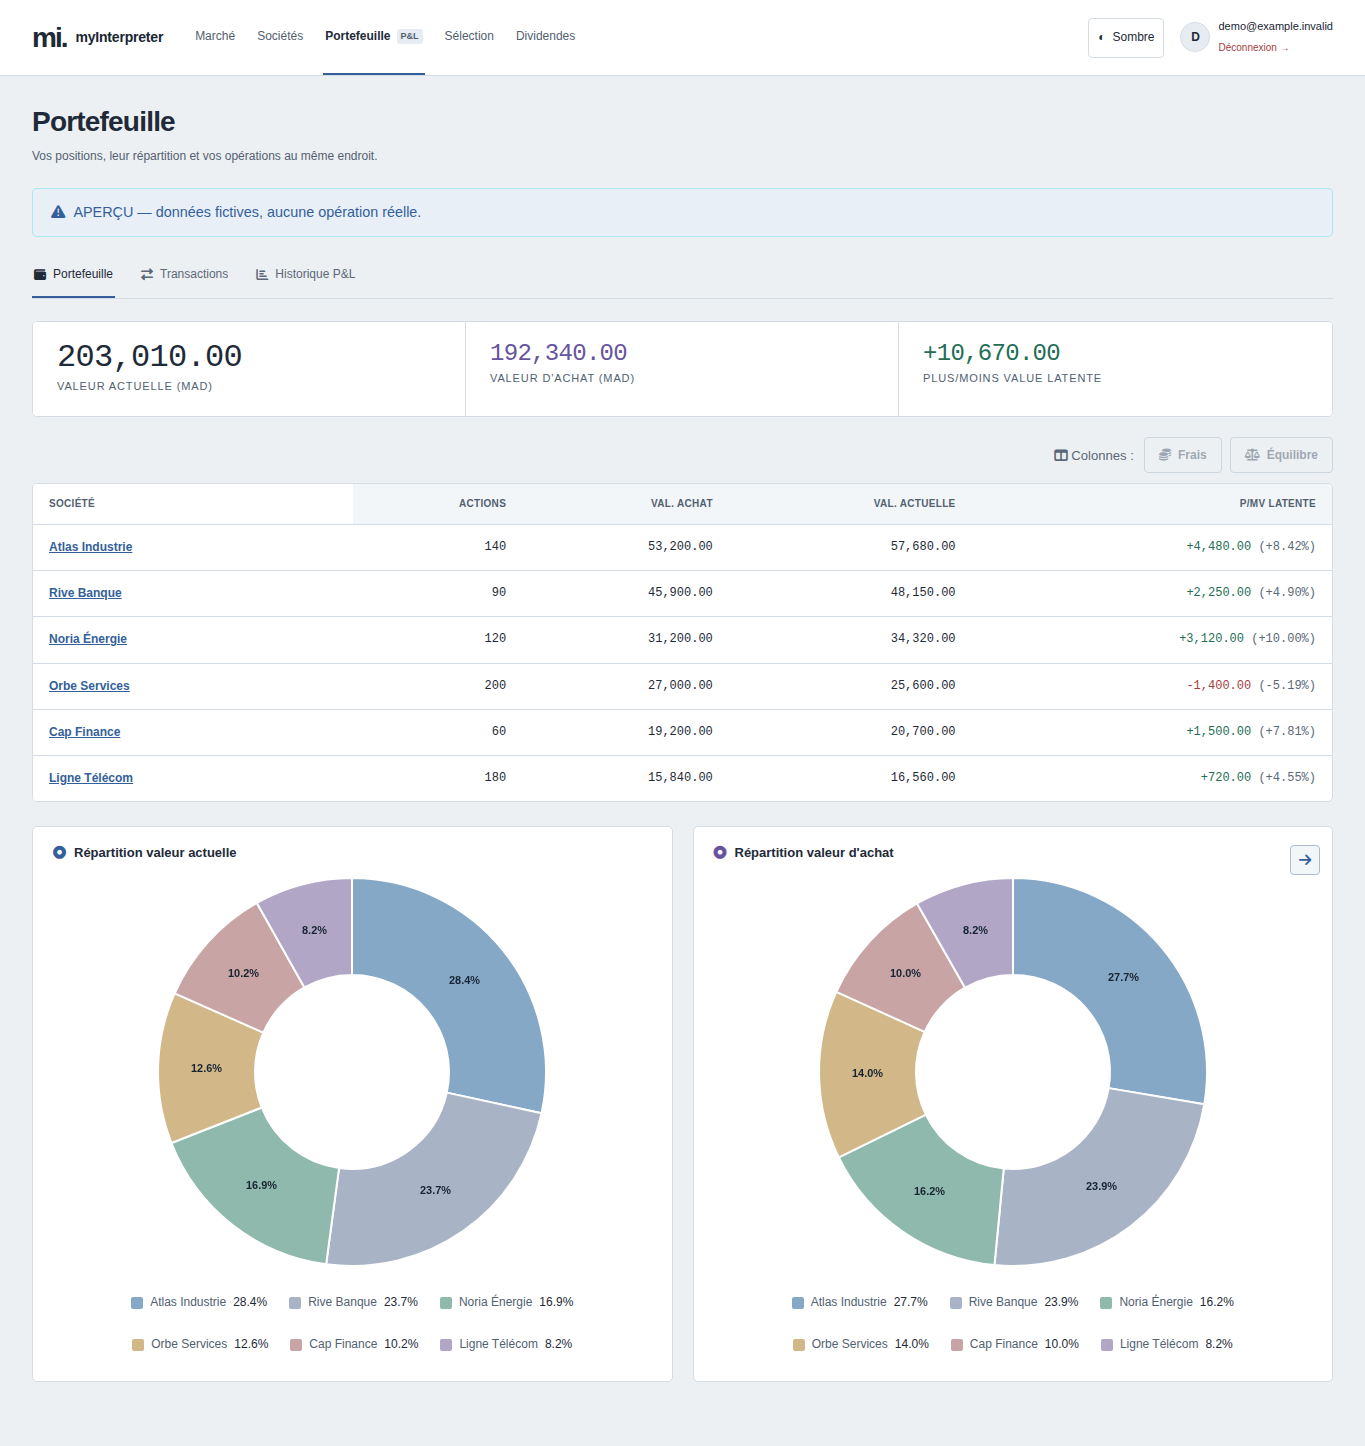
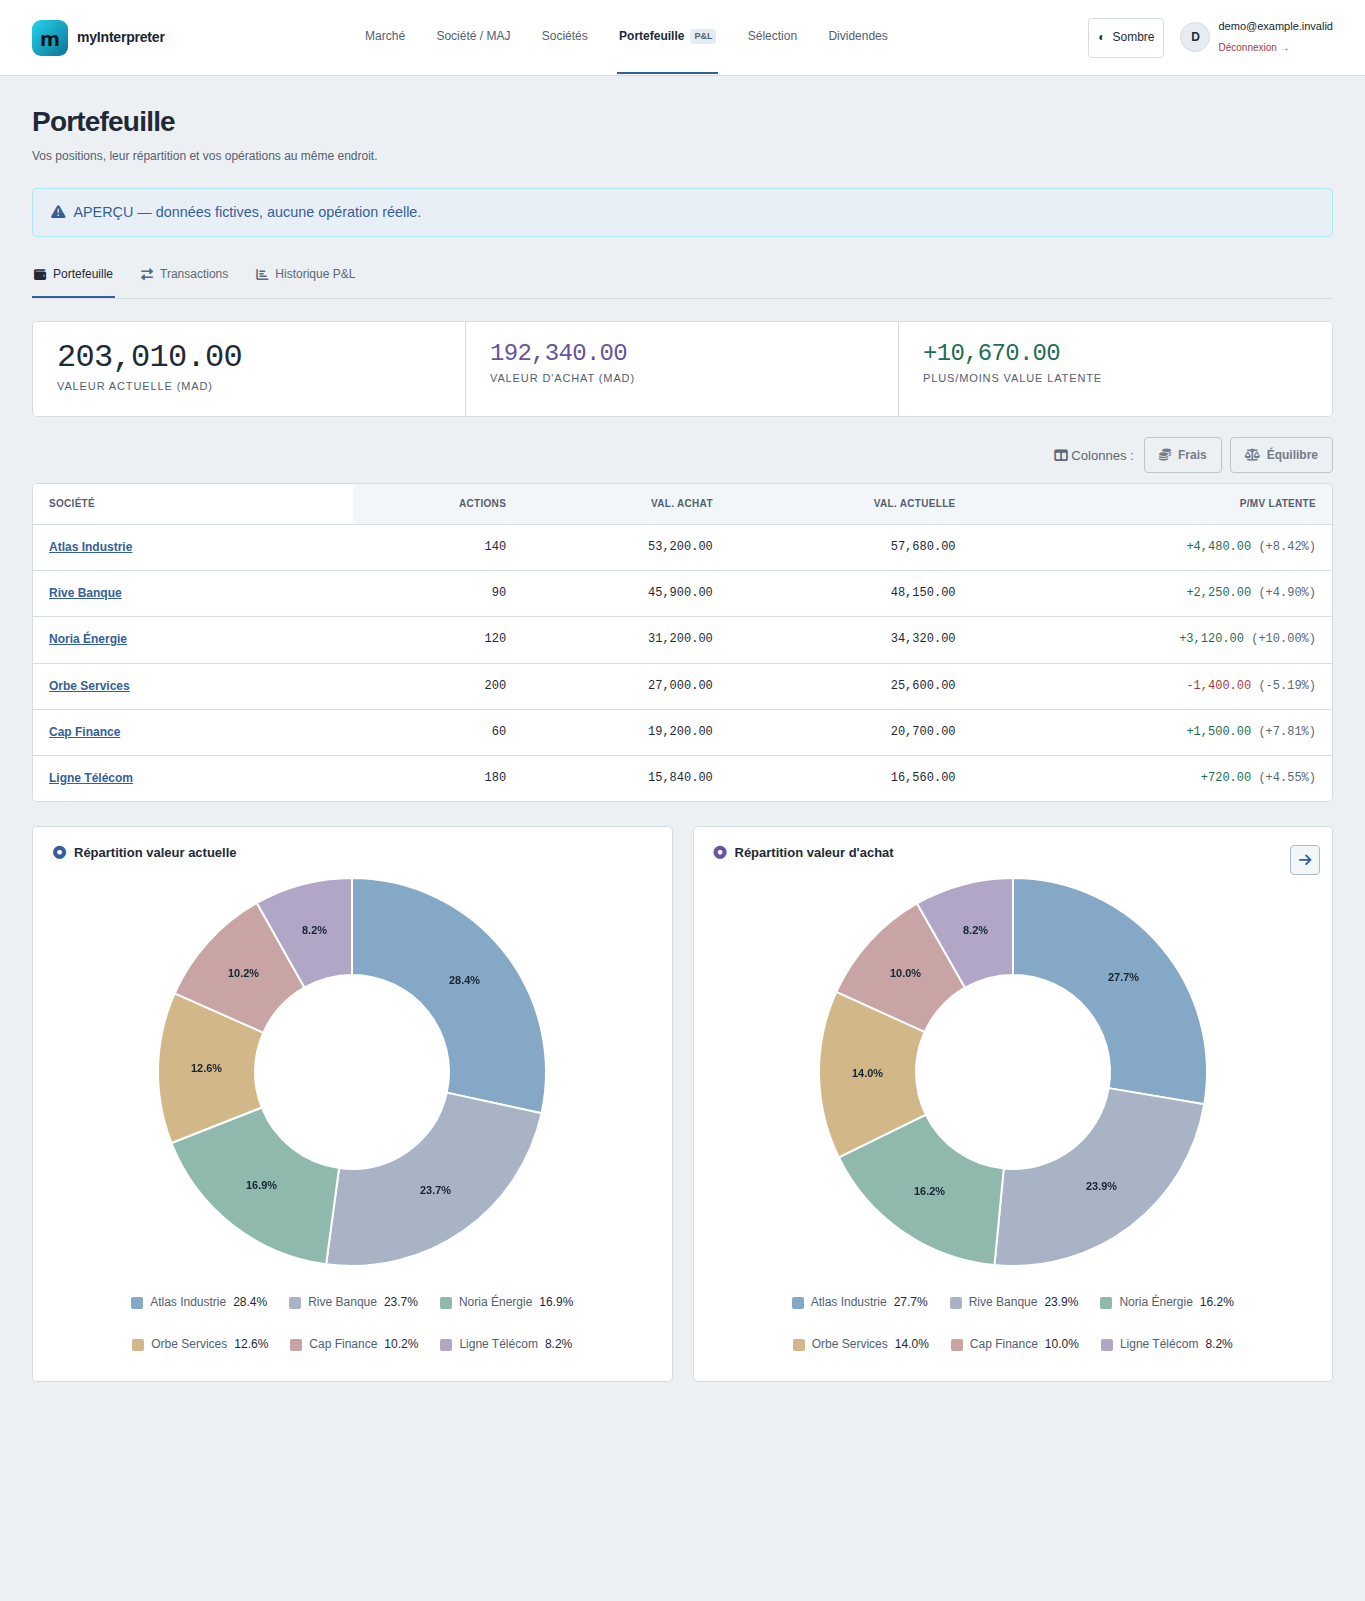
fix(ui): make financial charts and navigation responsive

diff --git a/assets/css/workspace.css b/assets/css/workspace.css
@@ -124,6 +124,10 @@ body.workspace { background: var(--bg); color: var(--text); font-family: var(--f
 .workspace .brand { flex-shrink: 0; border: 0; padding: 0; margin: 0; gap: 9px; }
 .workspace .brand-mark { width: auto; height: auto; font: 700 28px var(--font-body); letter-spacing: -2px; background: none; color: var(--text); box-shadow: none; border-radius: 0; }
 .workspace .brand:hover .brand-mark { box-shadow: none; }
+.workspace .sidebar { padding: 0; justify-content: center; }
+.workspace-header-inner { display: flex; align-items: center; gap: 24px; width: 100%; max-width: 1600px; min-height: 72px; padding-inline: 32px; }
+.workspace .brand-logo { width: 36px; height: 36px; flex: 0 0 36px; }
+.workspace .workspace-header-inner .nav-group { flex: 1; justify-content: center; gap: clamp(18px, 2vw, 30px); }
 .workspace .brand-name { font-size: 14px; }
 .workspace .brand-sub { display: none; }
 .workspace .nav-label, .workspace .nav-group .nav-icon { display: none; }
@@ -186,7 +190,14 @@ body.workspace { background: var(--bg); color: var(--text); font-family: var(--f
 .workspace-chart-legend button { position: static; overflow-wrap: anywhere; }
 .chart-legend-help { left: 0; right: 0; margin-inline: auto; width: min(400px, 100%); }
 .workspace .main, .workspace .main > *, .workspace .mkt-section { min-width: 0; }
-.workspace .mkt-chart-wrap { position: relative; min-width: 0; }
+.workspace .mkt-chart-wrap { position: relative; min-width: 0; width: 100%; height: clamp(260px, 25vw, 420px); max-height: none; }
+.workspace .mkt-chart-wrap canvas { width: 100% !important; height: 100% !important; }
+.workspace .holders-chart-wrap { position: relative; width: min(100%, 280px); aspect-ratio: 1; margin-inline: auto; }
+.workspace .holders-chart-wrap canvas { width: 100% !important; height: 100% !important; }
+.workspace .mkt-two-col { grid-template-columns: minmax(180px, 280px) minmax(0, 1fr); }
+.workspace .holder-name { overflow-wrap: anywhere; min-width: 0; }
+.workspace .col-toggle { transition: background-color 200ms, border-color 200ms, opacity 200ms; opacity: .8; }
+.workspace .col-toggle.active { background: var(--accent-dim); border-color: var(--accent); color: var(--accent); opacity: 1; }
 .workspace .mkt-section canvas { max-width: 100%; }
 .workspace .charts-grid { grid-template-columns: repeat(2, minmax(0, 1fr)); }
 @media (max-width: 900px) {
@@ -197,7 +208,8 @@ body.workspace { background: var(--bg); color: var(--text); font-family: var(--f
 .workspace .chart-switch:hover { transform: none; }
 .workspace .chart-switch--previous { left: auto; right: 12px; }
 .workspace .chart-heading { padding-right: 32px; }
-.workspace .sector-list { max-height: 280px; }
+.workspace .sector-list { max-height: none; overflow: visible; padding-inline-end: 0; }
+.workspace .charts-track { align-items: flex-start; }
 .workspace .sector-hover, .workspace .sector-picker__menu { background: var(--surface-1); color: var(--text); border-radius: 5px; }
 .workspace .price-filter__selection { background: var(--accent); }
 .workspace .directory-filters { padding: 20px; }
@@ -268,14 +280,16 @@ body.workspace { background: var(--bg); color: var(--text); font-family: var(--f
 .workspace .page-loading { background: var(--accent-dim); }
 .workspace :is(a, button, input, select, textarea):focus-visible { outline: 2px solid var(--accent); outline-offset: 3px; }
 @media (max-width: 1200px) {
-  .workspace .sidebar { gap: 20px; padding: 0 24px; flex-wrap: wrap; }
+  .workspace .sidebar { padding: 0; }
+  .workspace-header-inner { gap: 20px; padding-inline: 24px; flex-wrap: wrap; }
   .workspace .nav-group { gap: 14px; }
   .workspace .user-pill { max-width: 130px; }
   .workspace .user-name { max-width: 85px; }
   .workspace .main { padding: 24px; }
 }
 @media (max-width: 1000px) {
-  .workspace .sidebar { padding: 16px 24px 0; gap: 12px 20px; }
+  .workspace-header-inner { padding: 16px 24px 0; gap: 12px 20px; }
+  .workspace .workspace-header-inner .nav-group { justify-content: flex-start; flex: 1 0 100%; }
   .workspace .nav-group { order: 3; flex-basis: 100%; overflow-x: auto; gap: 24px; }
   .workspace .nav-item { min-height: 46px; }
   .workspace .user-pill { max-width: 190px; }
@@ -284,7 +298,7 @@ body.workspace { background: var(--bg); color: var(--text); font-family: var(--f
   .workspace .metric { border-bottom: 1px solid var(--border); }
 }
 @media (max-width: 768px) {
-  .workspace .sidebar { padding: 14px 16px 0; }
+  .workspace-header-inner { padding: 14px 16px 0; }
   .workspace .brand-name { font-size: 13px; }
   .workspace .brand-mark { font-size: 24px; }
   .workspace .nav-group { gap: 22px; }
@@ -320,6 +334,10 @@ body.workspace { background: var(--bg); color: var(--text); font-family: var(--f
   .workspace .div-years { margin-left: 0; }
   .workspace .login-wrap { min-height: 0; }
   .workspace .dash-card-inner { padding: 28px 20px; }
+}
+@media (max-width: 600px) {
+  .workspace .mkt-two-col { grid-template-columns: minmax(0, 1fr); }
+  .workspace .mkt-section { padding: 16px; }
 }
 @media (prefers-reduced-motion: reduce) {
   html { scroll-behavior: auto; }

diff --git a/assets/js/theme.js b/assets/js/theme.js
@@ -66,7 +66,7 @@
         if (axis.grid) axis.grid.color = color('--border');
         if (axis.border) axis.border.color = color('--border');
       }
-      if (chart.config.type === 'doughnut') {
+      if (['chartCurrent', 'chartBuy', 'chartSectors'].includes(chart.canvas.id)) {
         // Categorical allocation colors, not gain/loss indicators.
         const palette = ['#86a8c7', '#a8b4c6', '#8fb9ac', '#d2b789', '#c8a4a4', '#b1a6c6',
           '#8fb8bd', '#bdc494', '#bba88c', '#b89eb4', '#9ab6d2', '#b2c6b8',

diff --git a/infoAction.php b/infoAction.php
@@ -746,8 +746,10 @@ if ($awSession && !empty($name ?? '')) {
 
     // Quarterly CA
     const trim = d.trim;
+    const quarterKeys = Object.keys(trim || {}).filter(k => /^T[1-4]\d{4}$/.test(k))
+      .sort((a, b) => Number(a.slice(2)) - Number(b.slice(2)) || Number(a[1]) - Number(b[1]));
     if (trim) {
-      const qKeys = Object.keys(trim).filter(k => /^T\d\d{4}$/.test(k)).sort();
+      const qKeys = quarterKeys;
       if (qKeys.length > 0) {
         html += `<div class="mkt-section">
           <div class="mkt-section-title"><i class="fas fa-calendar-alt me-2 t-amber"></i>Chiffre d'affaires trimestriel (MMAD)</div>
@@ -761,7 +763,7 @@ if ($awSession && !empty($name ?? '')) {
       html += `<div class="mkt-section">
         <div class="mkt-section-title"><i class="fas fa-users me-2 t-emerald"></i>Actionnariat</div>
         <div class="mkt-two-col">
-          <canvas id="holdersChart" style="max-height:220px"></canvas>
+          <div class="holders-chart-wrap"><canvas id="holdersChart"></canvas></div>
           <div class="holders-list" id="holders-list"></div>
         </div>
       </div>`;
@@ -802,6 +804,8 @@ if ($awSession && !empty($name ?? '')) {
         },
         options: {
           responsive: true,
+          maintainAspectRatio: false,
+          animation: false,
           interaction: { mode: 'index', intersect: false },
           plugins: {
             legend: { display: false },
@@ -817,7 +821,7 @@ if ($awSession && !empty($name ?? '')) {
 
     // Draw quarterly chart
     if (trim) {
-      const qKeys = Object.keys(trim).filter(k => /^T\d\d{4}$/.test(k)).sort().slice(-12);
+      const qKeys = quarterKeys.slice(-12);
       if (qKeys.length > 0 && document.getElementById('trimChart')) {
         new Chart(document.getElementById('trimChart').getContext('2d'), {
           type: 'bar',
@@ -828,6 +832,8 @@ if ($awSession && !empty($name ?? '')) {
           },
           options: {
             responsive: true,
+            maintainAspectRatio: false,
+            animation: false,
             interaction: { mode: 'index', intersect: false },
             plugins: { legend: { display: false } },
             scales: {
@@ -849,7 +855,8 @@ if ($awSession && !empty($name ?? '')) {
           datasets: [{ data: d.shareholders.map(h => h.pct), backgroundColor: colors.slice(0, d.shareholders.length), borderWidth: 0 }]
         },
         options: {
-          responsive: true, maintainAspectRatio: true,
+          responsive: true, maintainAspectRatio: false,
+          animation: false,
           plugins: { legend: { display: false } }
         }
       });

diff --git a/portfolio.php b/portfolio.php
@@ -329,10 +329,10 @@ $activeTab = $_GET['tab'] ?? 'portfolio';
       </style>
       <div class="col-toggles">
         <span class="lbl"><i class="fas fa-table-columns me-1"></i>Colonnes :</span>
-        <button type="button" class="btn btn-ghost btn-sm col-toggle" onclick="toggleCols('frais', this)">
+        <button type="button" class="btn btn-ghost btn-sm col-toggle" aria-pressed="false" onclick="toggleCols('frais', this)">
           <i class="fas fa-coins"></i> Frais
         </button>
-        <button type="button" class="btn btn-ghost btn-sm col-toggle" onclick="toggleCols('seuil', this)">
+        <button type="button" class="btn btn-ghost btn-sm col-toggle" aria-pressed="false" onclick="toggleCols('seuil', this)">
           <i class="fas fa-scale-balanced"></i> Équilibre
         </button>
       </div>
@@ -606,8 +606,22 @@ function switchTab(name) {
 
 /* ── Collapsible column groups (frais / seuil) — collapsed by default ── */
 function toggleCols(group, btn) {
-  document.getElementById('holdingsTbl').classList.toggle('show-' + group);
-  btn.classList.toggle('active');
+  const table = document.getElementById('holdingsTbl');
+  const cells = [...table.querySelectorAll('th, td')];
+  cells.forEach(cell => cell.getAnimations().forEach(animation => animation.cancel()));
+  const before = new Map(cells.filter(cell => cell.offsetWidth).map(cell => [cell, cell.getBoundingClientRect()]));
+  const open = table.classList.toggle('show-' + group);
+  btn.classList.toggle('active', open);
+  btn.setAttribute('aria-pressed', String(open));
+  if (matchMedia('(prefers-reduced-motion: reduce)').matches) return;
+  for (const cell of cells) {
+    if (!cell.offsetWidth || cell.cellIndex === 0) continue;
+    const old = before.get(cell), next = cell.getBoundingClientRect();
+    cell.animate([
+      {transform: old ? `translateX(${old.left - next.left}px)` : 'translateX(8px)', opacity: old ? 1 : 0},
+      {transform: 'translateX(0)', opacity: 1}
+    ], {duration: 240, easing: 'cubic-bezier(.2,.7,.2,1)'});
+  }
 }
 
 /* ── Doughnut charts ───────────────────────────────────── */

diff --git a/tests/render_workspace_fixture.php b/tests/render_workspace_fixture.php
@@ -11,6 +11,7 @@ $_SESSION = ['logged_in' => $page !== 'login', 'USER_ID' => 'fixture-user', 'USE
 // Load pure formatting/calculation helpers, explicitly excluding secret loading.
 $config = file_get_contents('config/config.php');
 $config = preg_replace('/^require_once[^\n]+secrets\.php[^\n]*\n/m', '', $config);
+$config = preg_replace("/^define\\('ADMIN_USER_ID'.*$/m", "define('ADMIN_USER_ID', 'fixture-user');", $config);
 eval('?>' . $config);
 function aw_user_id() { return 'fixture-user'; }
 require 'core/auth.php';
@@ -39,6 +40,9 @@ $sectorRows = [
     ['code' => 'DEMO-C', 'label' => 'Services (démo)', 'held' => 2, 'market' => 7],
 ];
 $sectorChartRows = $sectorRows;
+for ($i = 4; $i <= 14; $i++) {
+    $sectorRows[] = ['code' => 'DEMO-' . $i, 'label' => 'Secteur fictif ' . $i, 'held' => 1, 'market' => 8];
+}
 $sectorAllocation = ['unclassified' => [], 'held_companies' => []];
 $sectorDirectory = [];
 $isLoggedIn = $page !== 'login'; $loginError = ''; $isSignUp = false;

diff --git a/core/sidebar.php b/core/sidebar.php
@@ -10,8 +10,9 @@ function _sb_active(string $page): string {
 }
 ?>
 <header class="sidebar">
+  <div class="workspace-header-inner">
   <a class="brand" href="index.php" aria-label="Retour au tableau de bord">
-    <div class="brand-mark" aria-hidden="true">mi.</div>
+    <img class="brand-logo" src="favicon.svg" width="36" height="36" alt="">
     <div>
       <div class="brand-name">myInterpreter</div>
       <div class="brand-sub">Bourse de Casablanca</div>
@@ -71,5 +72,6 @@ function _sb_active(string $page): string {
     </div>
   </div>
   <?php endif; ?>
+  </div>
   </div>
 </header>

diff --git a/core/theme.php b/core/theme.php
@@ -1,4 +1,4 @@
 <?php // Theme boot runs before the body to avoid flashing the opposite palette. ?>
-<script src="assets/js/theme.js?v=1"></script>
+<script src="assets/js/theme.js?v=2"></script>
 <script src="assets/js/workspace-charts.js?v=1"></script>
-<link rel="stylesheet" href="assets/css/workspace.css?v=2">
+<link rel="stylesheet" href="assets/css/workspace.css?v=3">

diff --git a/docs/LOCALIZATION_PLAN.md b/docs/LOCALIZATION_PLAN.md
@@ -1,0 +1,70 @@
+# French, English and Arabic — structure proposal
+
+Status: research/proposal only. No language switcher or translated production
+interface has been introduced. French remains the existing language. Arabic
+register needs confirmation (recommend Modern Standard Arabic, not Darija).
+
+## Feasibility and scope
+
+This PHP/JavaScript site can support three languages without rebuilding it or
+duplicating its pages. It is a medium-sized change, not a risk-free switch:
+strings live in templates, server messages and dynamically built chart panels.
+Layouts and financial formatting also need review. Start with one fully
+translated page before rolling out the rest; do not ship a header-only language
+selector that implies the entire site is translated.
+
+## Research: Arabic is more than alignment
+
+W3C recommends declaring the page direction with `dir="rtl"` on the root HTML
+element; language is separate, so use `lang="ar"` too. Use CSS logical properties
+such as `margin-inline-start` and `text-align: start` instead of hard-coded left
+and right. Arabic paragraphs can contain Latin names and numbers: isolate such
+runs using `bdi` or explicit direction rather than reversing text manually.
+Use `dir="auto"` for user-entered text with unknown direction. Keep Unicode
+text in logical order.
+
+Sources:
+
+- [W3C: structural markup and RTL text](https://www.w3.org/International/questions/qa-html-dir.en.html)
+- [W3C: inline bidirectional markup examples](https://www.w3.org/International/articles/inline-bidi-markup/bidi_examples.en.html)
+
+## Recommended project architecture (engineering proposal)
+
+1. A shared `core/i18n.php` resolves an allowlisted `fr`, `en` or `ar` locale
+   before output. Use a persisted preference with French fallback. Keep locale
+   independent from the theme and authentication; preserve query filters when
+   switching languages. Validate the locale, never interpolate arbitrary paths.
+2. Keep equivalent keyed catalogs in `locales/fr.php`, `en.php`, `ar.php`.
+   Translate headings, navigation, forms, errors, empty/loading states, help,
+   accessibility labels and financial explanations. Test matching key sets and
+   placeholders. Escape output normally; translations are not trusted HTML.
+3. Export only the page's needed translation strings as safe JSON for JS.
+   Dynamic chart legends, trade feedback, filters and tooltips use the same keys.
+4. Apply the root `lang` and `dir` server-side before paint. Audit Bootstrap's
+   physical spacing utilities and custom layout rules; use its compatible RTL
+   build where needed. Preserve the current light/dark design.
+5. Use locale-aware date/number formatting without changing underlying numeric
+   values or stored dates. Keep financial amounts/signs and ticker strings in
+   isolated LTR runs. Agree on Western versus Arabic-Indic digits before rollout;
+   for this Moroccan market UI, Western digits are a practical initial proposal.
+6. Keep legal company names, ticker symbols and the logo unchanged. Company
+   descriptions from stored data need separately reviewed translations; don't
+   silently present them as translated or send private data to a translation API.
+7. Mirror directional navigation where appropriate, not logos or charts blindly.
+   Keep chronological chart axes predictable and explicitly test chart legends,
+   numeric signs, percentages, currency and tooltip placement in RTL. Decide
+   table column order deliberately rather than inheriting an accidental reversal.
+
+## Rollout and verification
+
+First migrate the shell plus the complete market dashboard, with native-speaker
+review of Arabic financial terminology. Then portfolio/trades, company detail,
+screener and dividends, followed by admin and error states. Review plural forms
+and sentence placeholders instead of assembling translated sentence fragments.
+
+Test each language × both themes × 320–2560px, including keyboard navigation,
+touch, mixed Arabic/Latin company names, long labels, negative amounts, zoom,
+form errors and authenticated/admin views. Verify trade payloads and calculation
+results are identical across locales. Public language URLs and hreflang can be
+added later if translated pages should be independently indexed; that is a
+separate SEO/routing decision.

diff --git a/docs/WORKSPACE_REDESIGN.md b/docs/WORKSPACE_REDESIGN.md
@@ -80,3 +80,27 @@ idempotent document keys and incomplete-valuation guards. See its README for
 schedule, deployment and limitations. It is **not yet deployed or activated**;
 no live schema or schedule was changed. Until deployed, the removed manual
 control has no automatic replacement.
+
+## Wide-screen and interaction follow-up
+
+- Removed the 280px sector-list cap so all coverage rows use the card rather
+  than being cut off behind an unnecessary internal scrollbar. The allocation
+  track no longer stretches both slides to the taller slide's height.
+- Financial canvases now have explicit fluid containers and disabled aspect
+  ratio preservation. The shareholder donut has its own square container.
+  Financial-chart animations are disabled to avoid stale plotted positions
+  after resize/theme changes. Shareholder colors continue matching their list.
+- Quarterly results are sorted by year and then quarter, not lexicographically
+  by a quarter-first key.
+- Frais/Équilibre controls animate the movement and appearance of table cells,
+  expose `aria-pressed`, handle rapid toggles and respect reduced motion.
+- The header restores the existing `favicon.svg` identity, centers navigation
+  and aligns its bounded inner layout with content instead of separating the
+  brand and account across the entire 2560px screen.
+- Browser fixtures now execute the actual asynchronous company-chart script
+  with invented API responses, cover admin navigation and a long sector list,
+  and extend both-theme checks to 2560×1440. Checks include rendered bar spread,
+  circle geometry, matching canvas/container width and logo loading.
+
+English/Arabic research is in `docs/LOCALIZATION_PLAN.md`; translations are not
+implemented in this refinement. The daily P&L job remains undeployed.
